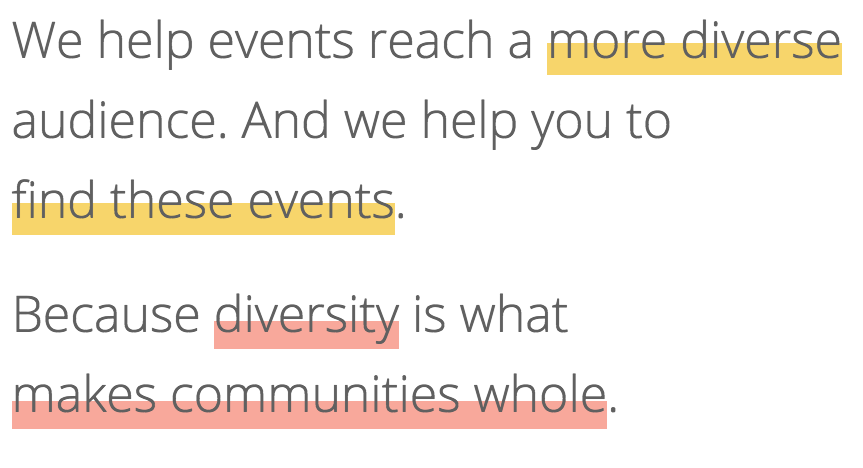
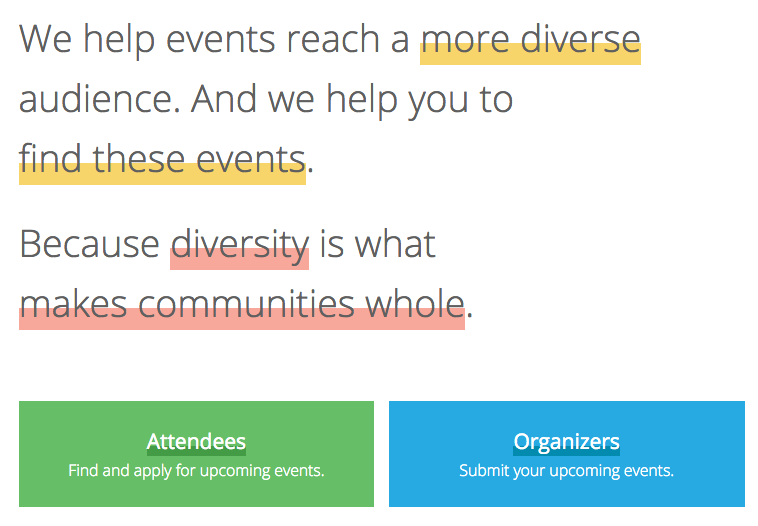
change diversitytickets screenshot, move screenshot to bottom

diff --git a/_posts/2016-04-26-diversity-tickets.md b/_posts/2016-04-26-diversity-tickets.md
@@ -15,9 +15,6 @@ Supporting attendees who would not be able to attend the conference otherwise al
 
 ## Meet DiversityTickets.org
 
-![](/images/blog/2016-04-26-diversity-tickets-app.png)
-<em>Diversitytickets.org</em>
-
 With years of expertise in the field of conferences and of diversity in Open Source and tech, Travis Foundation has been offering diversity consultancy to conference organisers, to support them in making their conference more inclusive, one change at a time. This consultancy also includes helping organisers with the extra load of work that comes with offering diversity tickets, using our very own app. We have partnered with [RubyMonstas](http://rubymonstas.org/), a Rails Girls study group based in Berlin, to create a platform that would allow conference organisers to quickly and easily set up a diversity ticket system for their conference: meet [diversitytickets.org](https://diversitytickets.org)!
 
 ![](/images/blog/2016-04-26-diversity-tickets-group.jpg)
@@ -42,6 +39,9 @@ This is the process we found works best and in the least intrusive way for diver
 
 ## Get in touch!
 
+![](/images/blog/2016-04-26-diversity-tickets-app.png)
+<em>Diversitytickets.org</em>
+
 While the app is currently only used specifically for conferences interested in working together with us, in the near future it’s going to give all conferences the possibility to use diversitytickets.org to advertise their diversity tickets, so that applicants can get informed about the conferences that offer special tickets or grants. Are you interested in making your conference more inclusive and offering diversity tickets for your attendees? [Get in touch](mailto:foundation@travis-ci.org)!  
 
-We’re grateful to the Rubymonstas for building this app for and with us, and can’t thank them enough for the amazing work they’ve done. A big shout out to their whole team, including Justine and Lisa, Matt and Joe, and a huge thank you to Katrin, Johanna and Ariane.
+We’re grateful to the Rubymonstas for building this app for and with us, and can’t thank them enough for the amazing work they’ve done. A big shout out to their whole team, including Justine and Lisa, Matt and Joe — and a huge thank you to Katrin, Johanna and Ariane.
